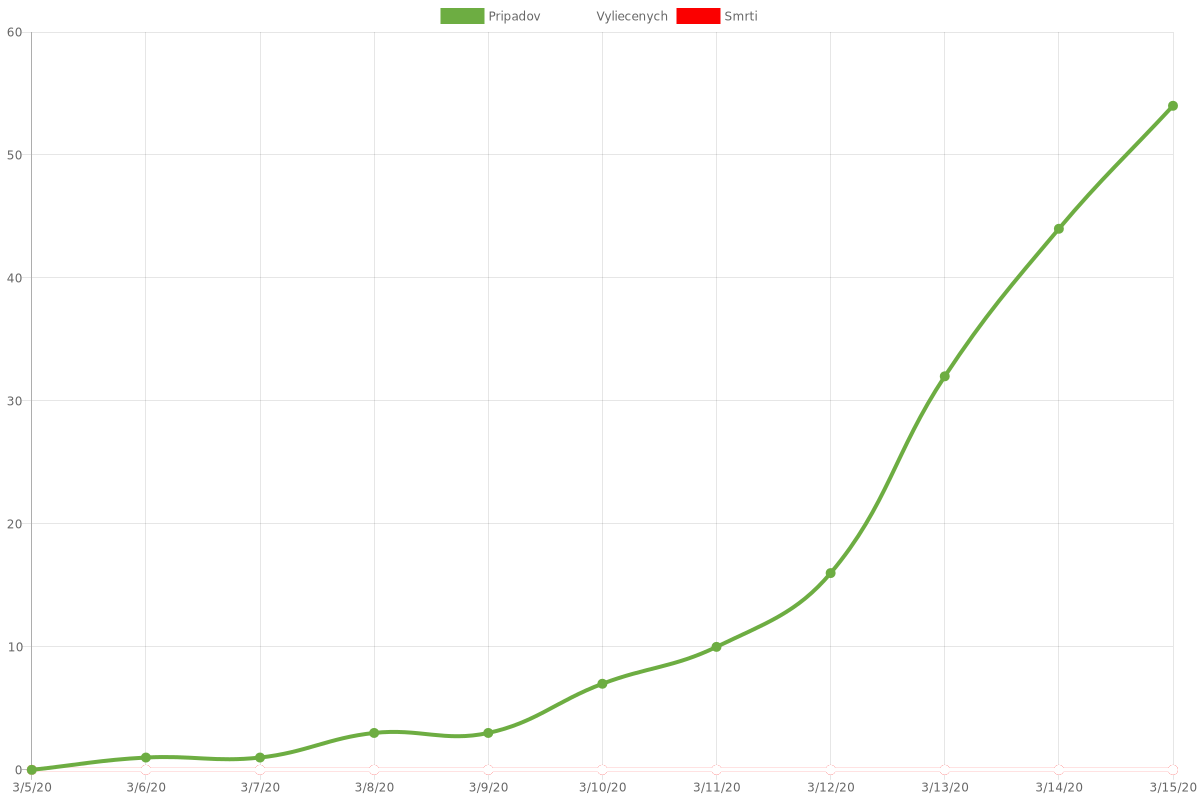
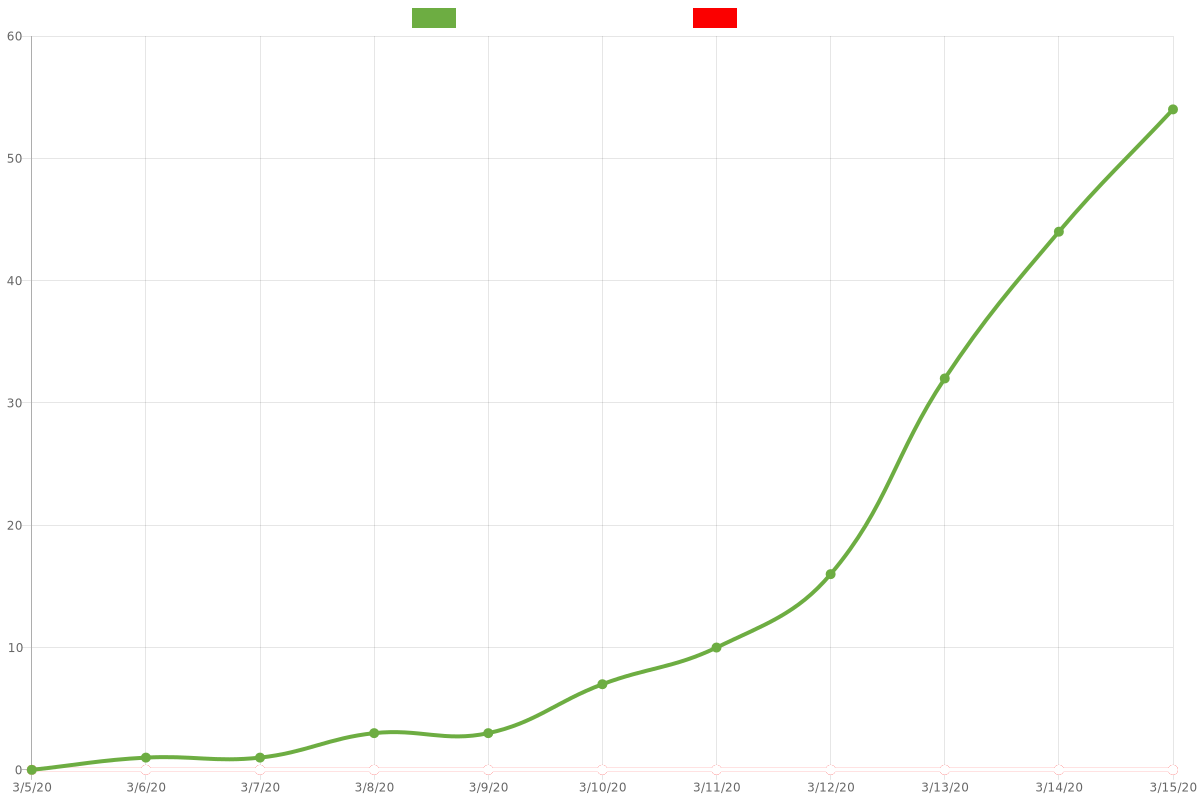
legend cleanup

diff --git a/src/chart.js b/src/chart.js
@@ -1,8 +1,8 @@
 const env = process.env;
 
-const labelCases = env['COR_LABEL_CASES'] || 'Pripadov';
-const labelRecoveries = env['COR_LABEL_RECOVERIES'] || 'Vyliecenych';
-const labelDeaths = env['COR_LABEL_DEATHS'] || 'Smrti';
+const labelCases = env['COR_LABEL_CASES'] || 'Prípadov';
+const labelRecoveries = env['COR_LABEL_RECOVERIES'] || 'Vyliečených';
+const labelDeaths = env['COR_LABEL_DEATHS'] || 'Smrtí';
 
 function drawChart(chartNode, timeAxis, dataConfirmed, dataRecovered, dataDeaths) {
   return chartNode.drawChart({
@@ -32,7 +32,13 @@ function drawChart(chartNode, timeAxis, dataConfirmed, dataRecovered, dataDeaths
         fill: false,
       }]
     },
-    options: {},
+    options: { legend: {
+        display: true,
+        labels: {
+          fontColor: '#ffffff',
+          fontSize: 16
+        }
+      }},
   })
 }
 
